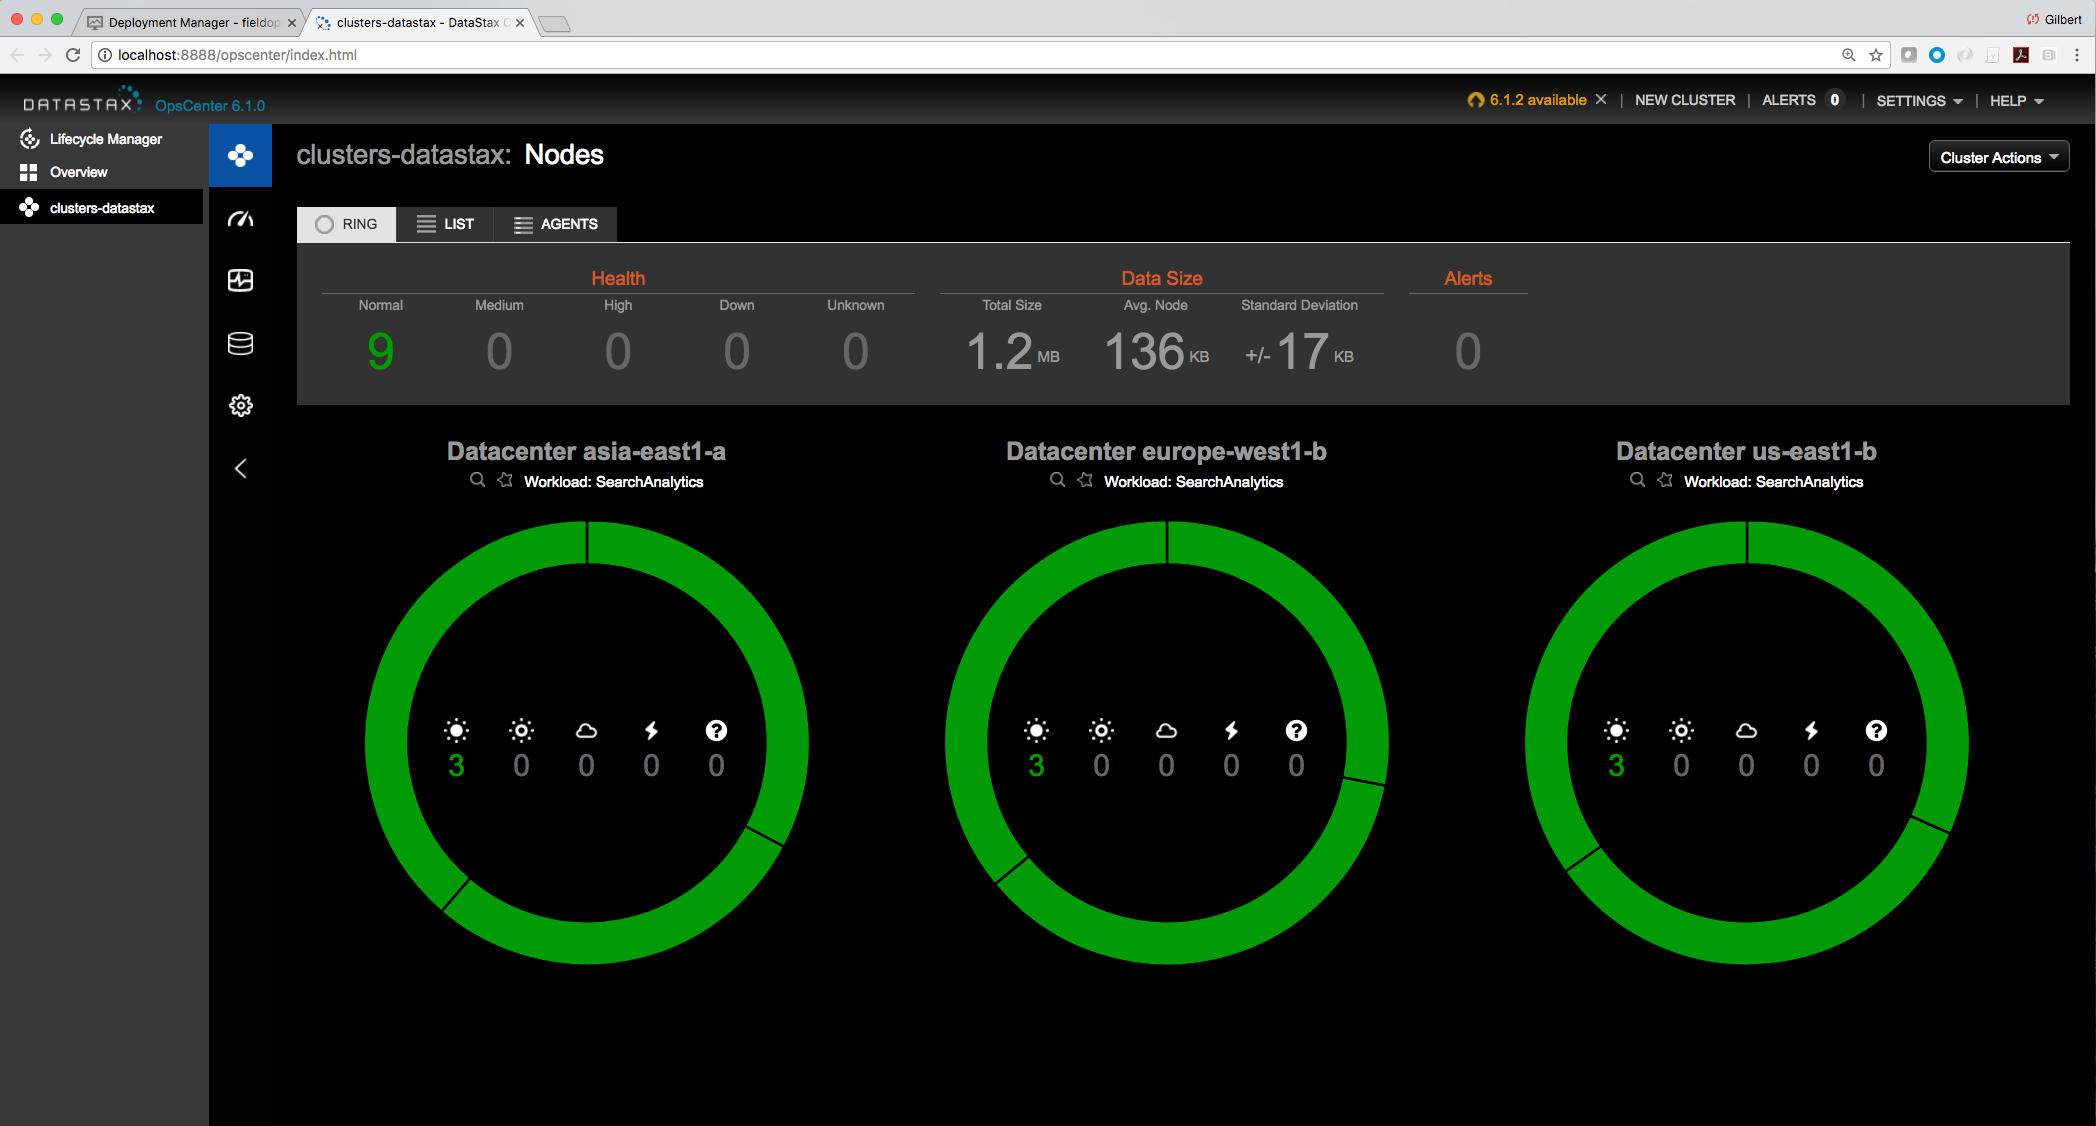
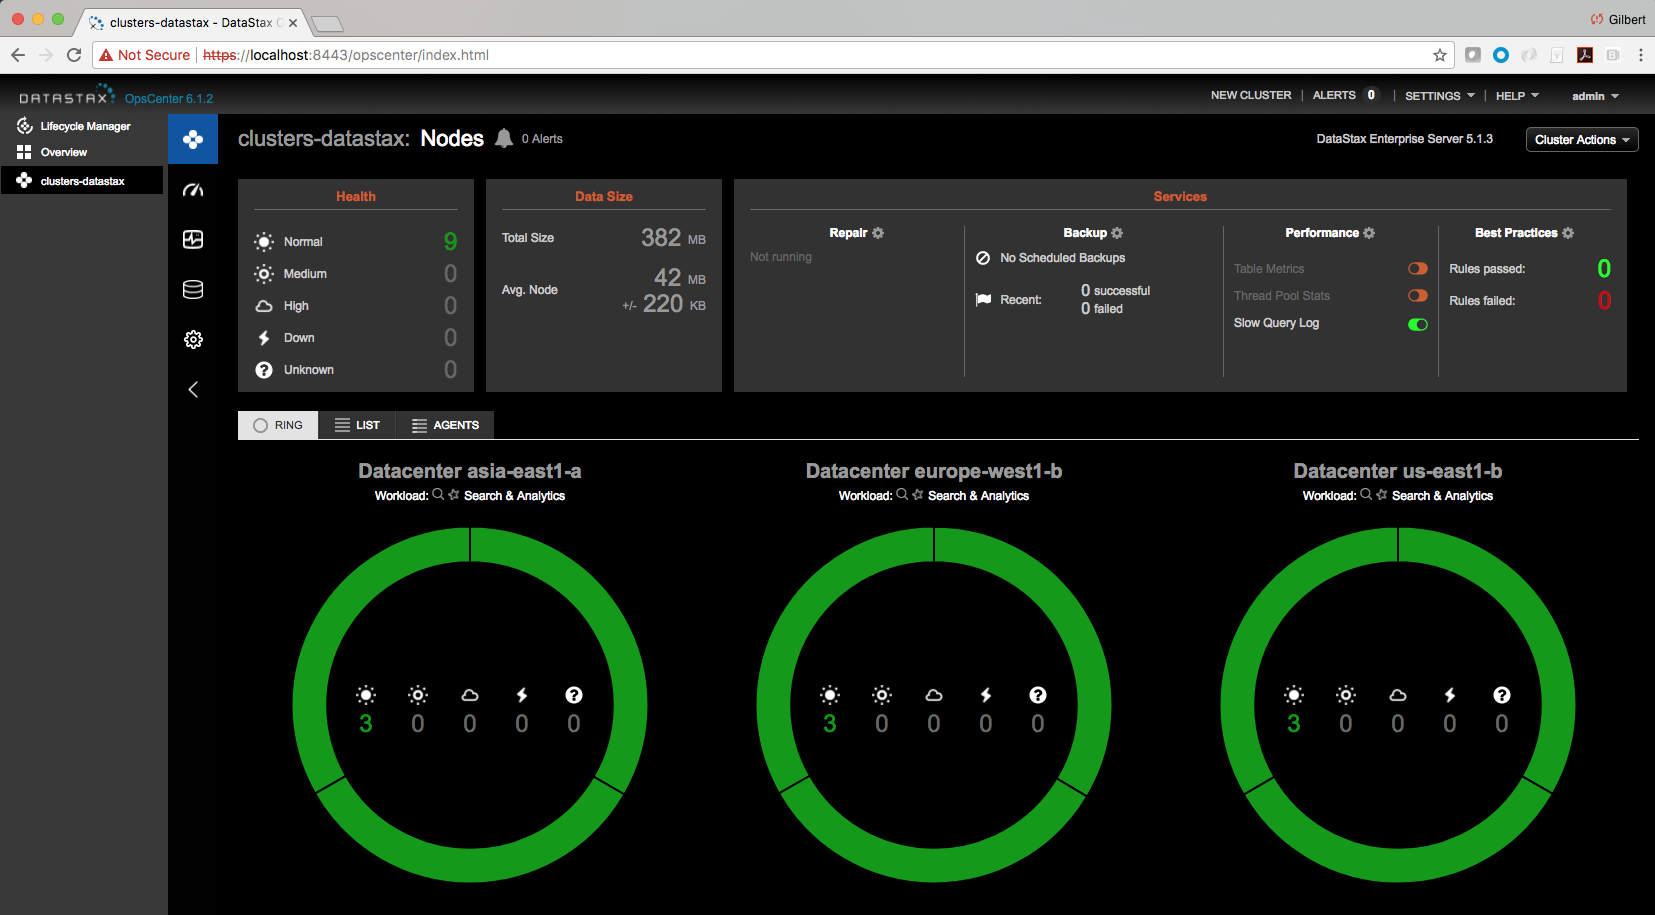
Update
1. Added OpsCenter crews
2. Added alterKeyspaces for multi-DC

diff --git a/datastax.py b/datastax.py
@@ -52,6 +52,9 @@ def GenerateConfig(context):
     dsa_username = context.properties['dsa_username']
     dsa_password = context.properties['dsa_password']
 
+    # Set default OpsCenter Admin password
+    opsc_admin_pwd = context.properties['opsCenterAdminPwd']
+
     # Set DC size, number of DCs and cluster's size
     dc_size = context.properties['nodesPerZone']
     num_dcs = len(context.properties['zones'])
@@ -117,24 +120,19 @@ def GenerateConfig(context):
         popd
 
         cd ~ubuntu
-        release="5.5.6"
+        release="6.0.0"
         wget https://github.com/DSPN/install-datastax-ubuntu/archive/$release.zip
         unzip $release.zip
         cd install-datastax-ubuntu-$release/bin/lcm/
 
-        # Set dcsize to 199 (a very big number) as interim solution to avoid race condition
-        dcsize=199
-
         ./addNode.py \
         --opsc-ip $opsc_ip \
         --clustername $cluster_name \
-        --dcsize $dcsize \
         --dcname $data_center_name \
         --rack $rack \
         --pubip $private_ip \
         --privip $private_ip \
         --nodeid $node_id \
-        --dbpasswd $db_pwd
         '''
 
     zonal_clusters = {
@@ -175,7 +173,7 @@ def GenerateConfig(context):
 
       apt-get -y install unzip
 
-      release="5.5.6" 
+      release="6.0.0" 
       wget https://github.com/DSPN/install-datastax-ubuntu/archive/$release.zip
       unzip $release.zip
       cd install-datastax-ubuntu-$release/bin
@@ -222,6 +220,15 @@ def GenerateConfig(context):
       ./setupCluster.py --user ubuntu --pause 60 --trys 40 --opsc-ip $private_ip --clustername $cluster_name --privkey $privkey --datapath /mnt/data1 --repouser $dsa_username --repopw $dsa_password
       ./triggerInstall.py --opsc-ip $private_ip --clustername $cluster_name --clustersize $cluster_size --dbpasswd $db_pwd --dclevel 
       ./waitForJobs.py --num $num_dcs --opsc-ip $private_ip 
+
+      # Alter required keyspaces for multi-DC
+      ./alterKeyspaces.py
+
+      # Update password for default DSE OpsCenter administrator (admin)
+      # opsCenterAdminPwd
+      opsc_admin_pwd=''' + opsc_admin_pwd + '''
+      cd ../opscenter
+      ./set_opsc_pw_https.sh $opsc_admin_pwd
 
       # Remove public key from Google cloud storage bucket
       gsutil rm gs://$sshkey_bucket/lcm_pem.pub

diff --git a/README.md b/README.md
@@ -84,14 +84,16 @@ At this point, the physical resources on GCE have all provisioned. DataStax Ente
 
 To view OpsCenter, the DataStax admin interface, we will need to create an ssh tunnel.  To do that, open a terminal on your local machine and run the command:
 
-    gcloud compute ssh --ssh-flag=-L8888:localhost:8888 --project=<NAME OF YOUR PROJECT> --zone=us-central1-f <NAME OF YOUR DEPLOYMENT>-opscenter-vm 
+    gcloud compute ssh --ssh-flag=-L8443:localhost:8443 --project=<NAME OF YOUR PROJECT> --zone=us-central1-f <NAME OF YOUR DEPLOYMENT>-opscenter-vm 
 
 In my case, the project is named `fieldops-gce-presales` and the deployment is named `gml`, though it will have a different name for you.
 
 ![](./img/tunnel.png)
 
-Now, we can open a web browser to http://localhost:8888 to view OpsCenter.
+OpsCenter uses a self-signed SSL certificate, so you will need to accept the certificate exception. 
+Now, we can open a web browser to https://localhost:8443 and log into OpsCenter using "admin" as Username and the value of opsCenterAdminPwd in clusterParameters.yaml as Password. *The OpsCenter instance uses a self-signed SSL certificate, so you will need to accept the certificate exception before you can see the OpsCenter's login page.* 
 
+![](./img/pre_opscenter.png)
 ![](./img/opscenter.png)
 
 Great!  You now have a DataStax Enterprise cluster running with 3 nodes in Asia, Europe and America.
